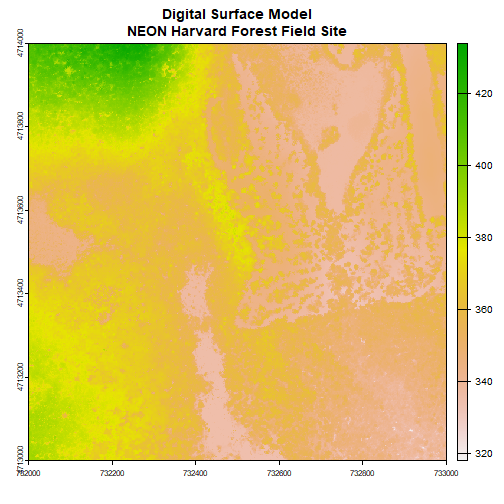
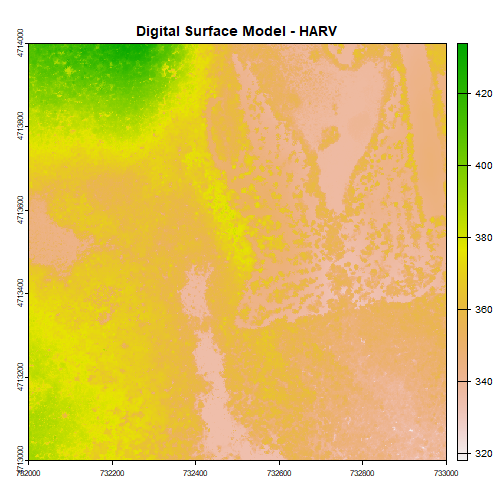
more minor clean-up

Changed region(s): [[0.2381, 0.0, 0.6845, 0.0893]]

diff --git a/tutorials/R/Geospatial-skills/intro-raster-r/01-Plot-Raster/01-Plot-Raster.html b/tutorials/R/Geospatial-skills/intro-raster-r/01-Plot-Raster/01-Plot-Raster.html
@@ -131,15 +131,13 @@ tool to explore raster values. And render categorical plots, using the <code>bre
 argument to get bins that are meaningful representations of our data.</p>
 <p>We will use the <code>terra</code> package in this tutorial. If you do not
 have the <code>DSM_HARV</code> variable as defined in the pervious tutorial, <a href="https://www.neonscience.org/dc-raster-data-r" target="_blank"> <em>Intro To Raster In R</em></a>, please download it using <code>neonUtilities</code>, as shown in the previous tutorial.</p>
-<pre><code># if they are not already loaded
-
-library(terra)
+<pre><code>library(terra)
 
 
 
 # set working directory
 
-wd &lt;- &quot;~/data/&quot; # this will depend on your local environment environment
+wd &lt;- &quot;~/data/&quot;
 
 setwd(wd)
 
@@ -155,8 +153,7 @@ DSM_HARV &lt;- rast(dsm_harv_file)
 <code>plot()</code> function. We add a title using the argument <code>main=&quot;title&quot;</code>.</p>
 <pre><code># Plot raster object
 
-plot(DSM_HARV,
-     main=&quot;Digital Surface Model\nNEON Harvard Forest Field Site&quot;)
+plot(DSM_HARV, main=&quot;Digital Surface Model - HARV&quot;)
 </code></pre>
 <p><img src="https://raw.githubusercontent.com/NEONScience/NEON-Data-Skills/main/tutorials/R/Geospatial-skills/intro-raster-r/01-Plot-Raster/rfigs/hist-raster-1.png" alt="Digital surface model showing the continuous elevation of NEON’s site Harvard Forest" /></p>
 <h2 id="plotting-data-using-breaks">Plotting Data Using Breaks</h2>

diff --git a/tutorials/R/Geospatial-skills/intro-raster-r/01-Plot-Raster/01-Plot-Raster.md b/tutorials/R/Geospatial-skills/intro-raster-r/01-Plot-Raster/01-Plot-Raster.md
@@ -1,12 +1,12 @@
 ---
 syncID: cdeed1d7546a4a179c0cd83b17a4938c
 title: "Raster 01: Plot Raster Data in R"	
-description: "This tutorial explains how to plot a raster in R using R's base plot function. It also covers how to layer a raster on top of a hillshade to produce  an eloquent map."	
+description: "This tutorial explains how to plot a raster in R using R's base plot function. It also shows how to create a hillshade and layer a DSM raster on top of a hillshade to produce an eloquent map."	
 dateCreated: 2015-10-2
 authors: Leah A. Wasser, Megan A. Jones, Zack Brym, Kristina Riemer, Jason Williams, Jeff Hollister,  Mike Smorul	
-contributors:	Jason Brown
+contributors:	Jason Brown, Bridget Hass
 estimatedTime: 30 minutes
-packagesLibraries: raster, rgdal
+packagesLibraries: terra
 topics: data-viz, raster, spatial-data-gis
 languagesTool: R
 dataProduct: DP3.30024.001
@@ -81,15 +81,13 @@ We will use the `terra` package in this tutorial. If you do not
 have the `DSM_HARV` variable as defined in the pervious tutorial, <a href="https://www.neonscience.org/dc-raster-data-r" target="_blank"> *Intro To Raster In R*</a>, please download it using `neonUtilities`, as shown in the previous tutorial.  
 
 
-    # if they are not already loaded
-
     library(terra)
 
     
 
     # set working directory
 
-    wd <- "~/data/" # this will depend on your local environment environment
+    wd <- "~/data/"
 
     setwd(wd)
 
@@ -107,8 +105,7 @@ First, let's plot our Digital Surface Model object (`DSM_HARV`) using the
 
     # Plot raster object
 
-    plot(DSM_HARV,
-         main="Digital Surface Model\nNEON Harvard Forest Field Site")
+    plot(DSM_HARV, main="Digital Surface Model - HARV")
 
 ![Digital surface model showing the continuous elevation of NEON's site Harvard Forest](https://raw.githubusercontent.com/NEONScience/NEON-Data-Skills/main/tutorials/R/Geospatial-skills/intro-raster-r/01-Plot-Raster/rfigs/hist-raster-1.png)
 
